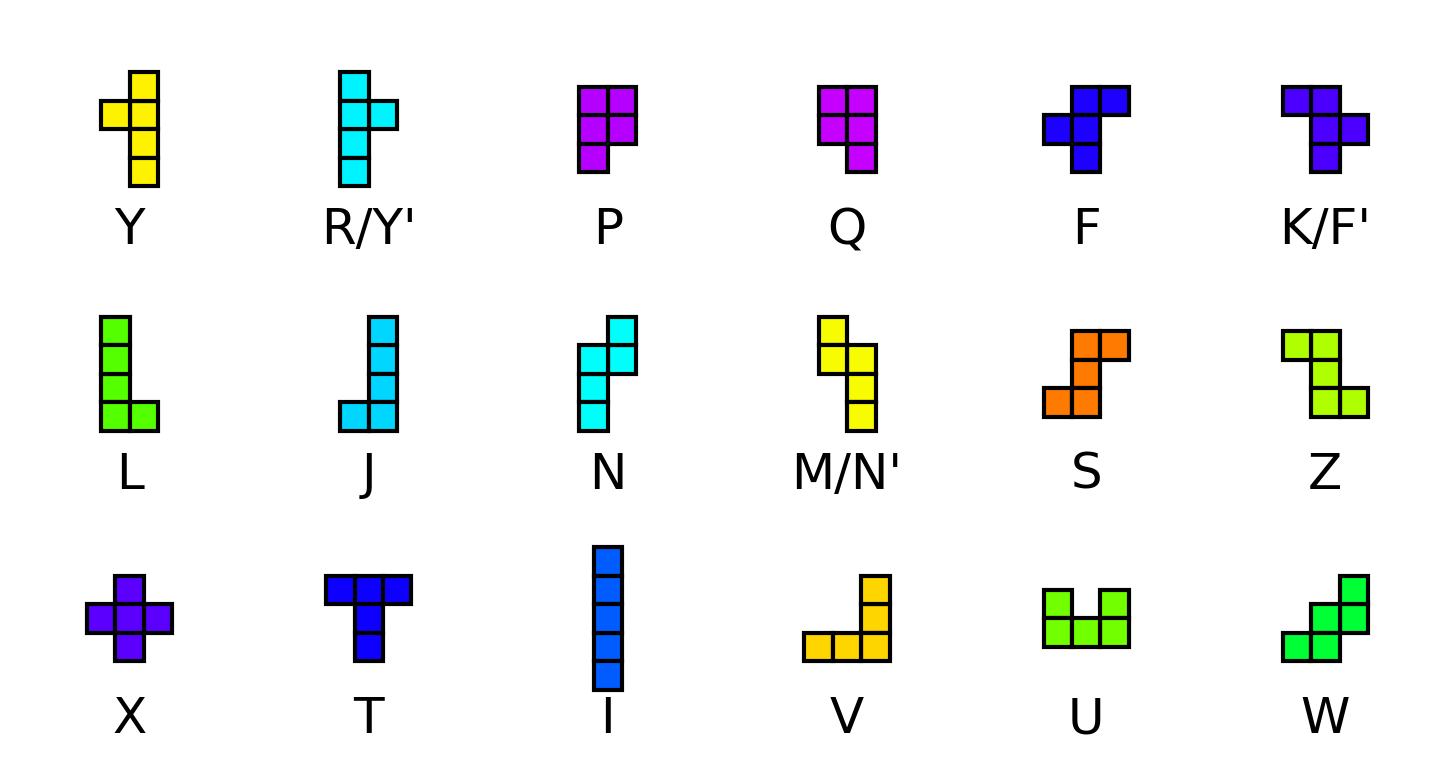
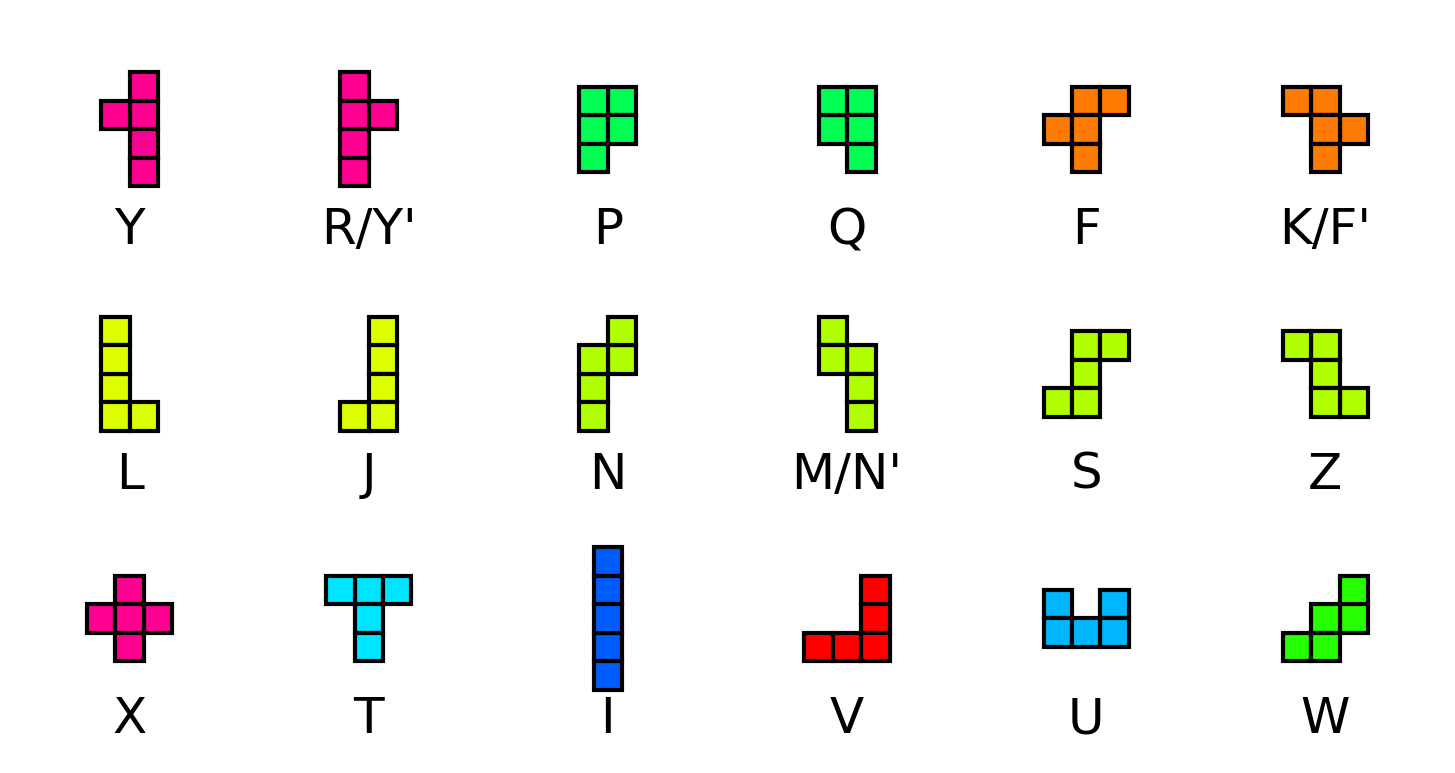
changed color generation code so that mirror images generate the same color

diff --git a/polyominoes.py b/polyominoes.py
@@ -59,6 +59,10 @@ class Polyomino:
     def __repr__(self):
         return str(self.squares)
 
+    def get_color(self):
+        flp = Polyomino(flip(self.squares))
+        rots = flp.rots + self.rots
+        return cmap(pow(max(rots),min(rots),97))
     def draw(self, ax, n):
         sq = self.squares
         for i in range(self.draw_rot):
@@ -66,7 +70,7 @@ class Polyomino:
         xs, ys = zip(*sq)
         mx, my = max(xs) + 1, max(ys) + 1
         cx, cy = mx / 2, my / 2
-        color = cmap(self.rots[self.draw_rot]% 97)
+        color = self.get_color()
         for x, y in sq:
             ax.add_patch(patches.Rectangle((x - cx, y - cy), 1, 1, facecolor=color, edgecolor='black'))
         ax.set_axis_off()
@@ -82,7 +86,7 @@ def get_name(n):
     return PREFIXES[n] + 'omino'
 
 
-def generate(n: int, keep: bool):
+def generate(n: int, keep: bool, file=None):
     nominoes = [Polyomino([(0, 0)])]
     for _ in range(n - 1):
         #print(_)
@@ -97,10 +101,11 @@ def generate(n: int, keep: bool):
             nominoes += newnominoes
     #print(nominoes, len(nominoes))
 
-
+    if file is None:
+        file = get_name(n)
 
     try:
-        df = pd.read_csv(f'data/{get_name(n)}es.csv')
+        df = pd.read_csv(f'data/{file}es.csv')
         df.fillna(0, inplace=True)
     except FileNotFoundError:
         df = pd.DataFrame(columns=['name', 'rot', 'main'])
@@ -129,13 +134,15 @@ def generate(n: int, keep: bool):
         sv.loc[idx] = [nomino.name, nomino.rots[nomino.draw_rot]]
         idx += 1
     sv['bitrep'] = sv['bitrep'].astype(int)
-    sv.to_csv(f'data/{get_name(n)}_data.csv', index=False)
+    sv.to_csv(f'data/{file}_data.csv', index=False)
 
-def make_image(n):
-    rows, cols = [(0, 0), (1, 1), (1, 1), (1, 4), (1, 7), (3, 6),(6, 10), (28, 7)][n]
+def make_image(n, file=None):
+    rows, cols = [(0, 0), (1, 1), (1, 1), (1, 4), (1, 7), (3, 6), (6, 10), (28, 7)][n]
 
     bfig, axs = plt.subplots(rows, cols, figsize=(cols, rows), dpi=300)
-    sv = pd.read_csv(f'data/{get_name(n)}_data.csv')
+    if file is None:
+        file = get_name(n)
+    sv = pd.read_csv(f'data/{file}_data.csv')
 
     for i, [name, b] in sv.iterrows():
         #print(i, name)
@@ -148,8 +155,15 @@ def make_image(n):
             ax = axs[i // cols, i % cols]
         ax.set_aspect('equal')
         p.draw(ax, n)
-    bfig.savefig(f'images/{get_name(n)}es.png',bbox_inches='tight')
+    bfig.savefig(f'images/{file}es.png',bbox_inches='tight')
 
-N = 6
-generate(N, False)
-make_image(N)
+generate(3, True)
+make_image(3)
+generate(4, False, 'tetris')
+make_image(4, 'tetris')
+generate(4, False)
+make_image(4)
+generate(5, False)
+make_image(5)
+generate(6, False)
+make_image(6)

diff --git a/README.md b/README.md
@@ -5,7 +5,7 @@ hexominoes, but I felt unsatisfied.
 
 I always liked the tetris pieces and their lettering.
 
-![tetrominoes](images/tetris.png)
+![tetrominoes](images/tetrises.png)
 
 And the tetris pieces are one-sided, i.e. they distinguish between reflections, but not rotations. 
 
